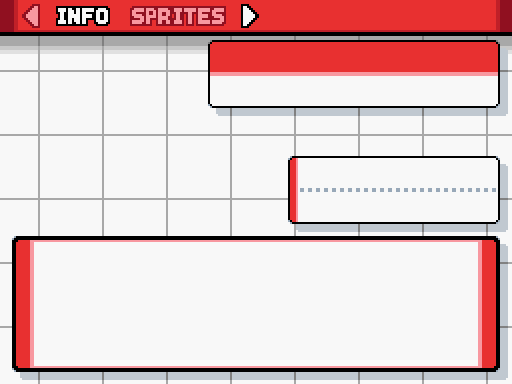
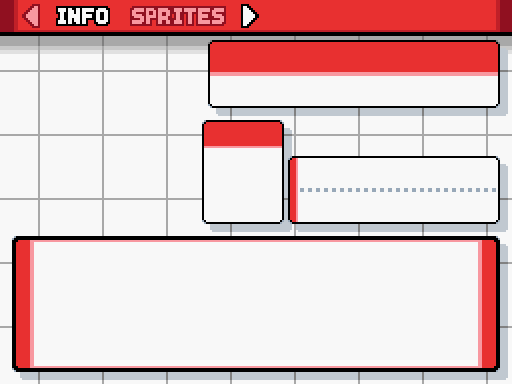
add evolution info to pokedex

Changed region(s): [[0.375, 0.3125, 0.5938, 0.625]]

diff --git a/Data/Scripts/016_UI/004_UI_Pokedex_Entry.rb b/Data/Scripts/016_UI/004_UI_Pokedex_Entry.rb
@@ -304,6 +304,25 @@ class PokemonPokedexInfo_Scene
     if $Trainer.owned?(@species)
       # Write the category
       textpos.push([_INTL("{1} Pokémon", species_data.category), 246, 68, 0, base, shadow])
+      # Write the Evolutions
+      textpos.push([_INTL("Evolve"), 210, 112, 0, Color.new(248, 248, 248), Color.new(0, 0, 0)])
+      evolutions = species_data.get_evolutions
+      item_evo = evolutions.any? { |evo| evo[1] == :Item }
+      other_evo = evolutions.any? { |evo| evo[1] != :Item && evo[1] != :Level }
+      evolutions.select! { |evo| evo[1] == :Level }
+      y_evo_offset = 140;
+      for evo in evolutions
+        next if !evo
+        textpos.push([_INTL("Lv {1}", evo[2]), 208, y_evo_offset, 0, base, shadow])
+        y_evo_offset += 24
+      end
+      if item_evo
+        textpos.push([_INTL("Item"), 208, y_evo_offset, 0, base, shadow])
+        y_evo_offset += 24
+      end
+      if other_evo
+        textpos.push([_INTL("Other"), 208, y_evo_offset, 0, base, shadow])
+      end
       # Write the height and weight
       height = species_data.height
       weight = species_data.weight
